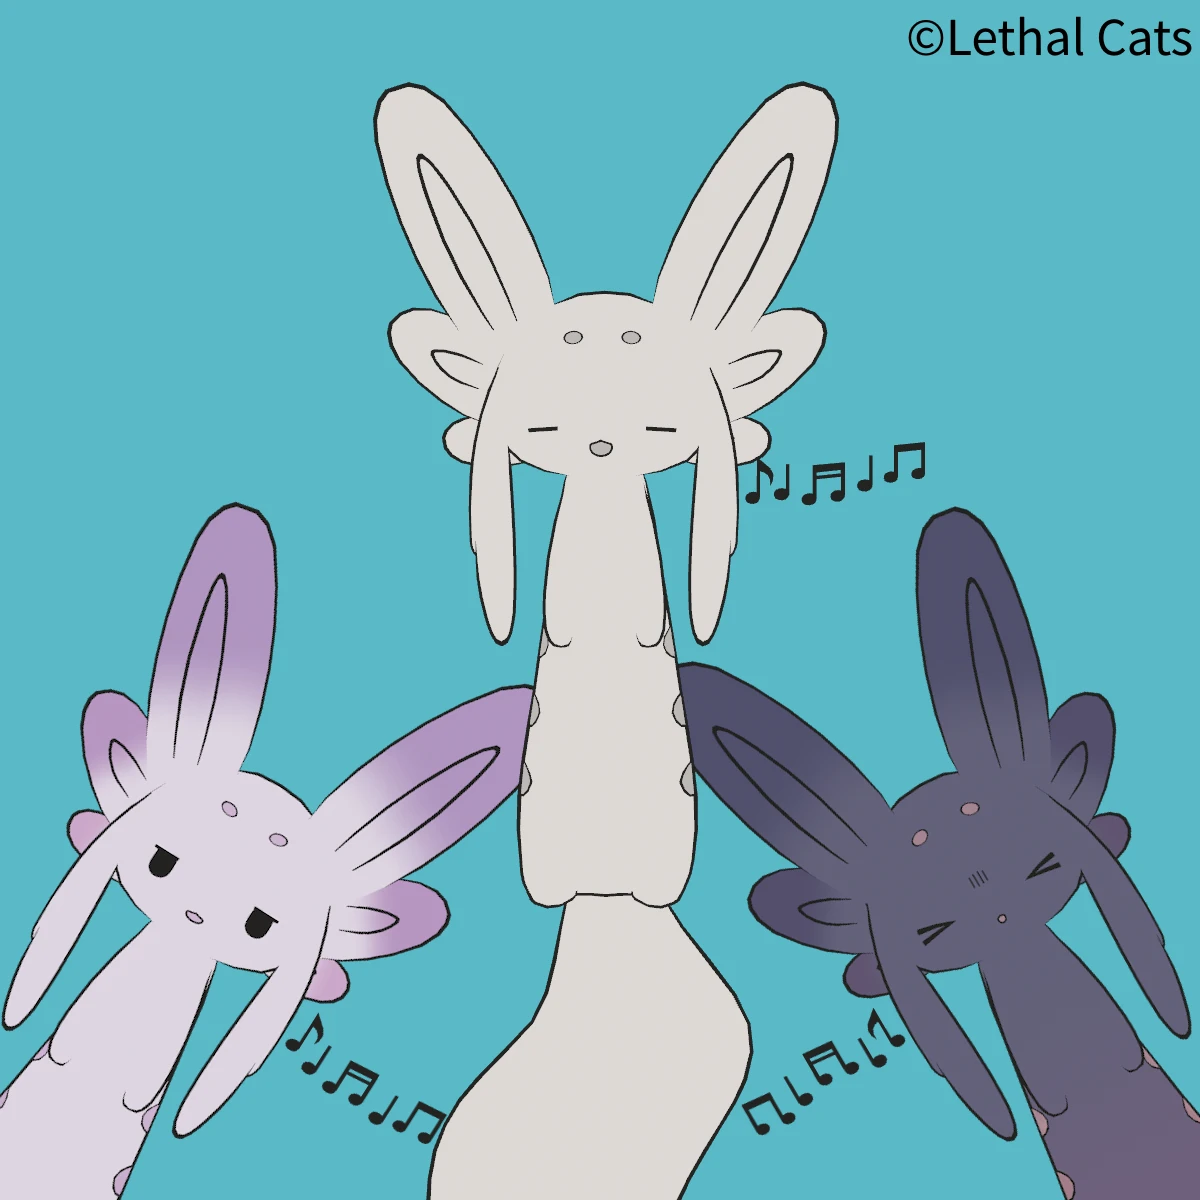
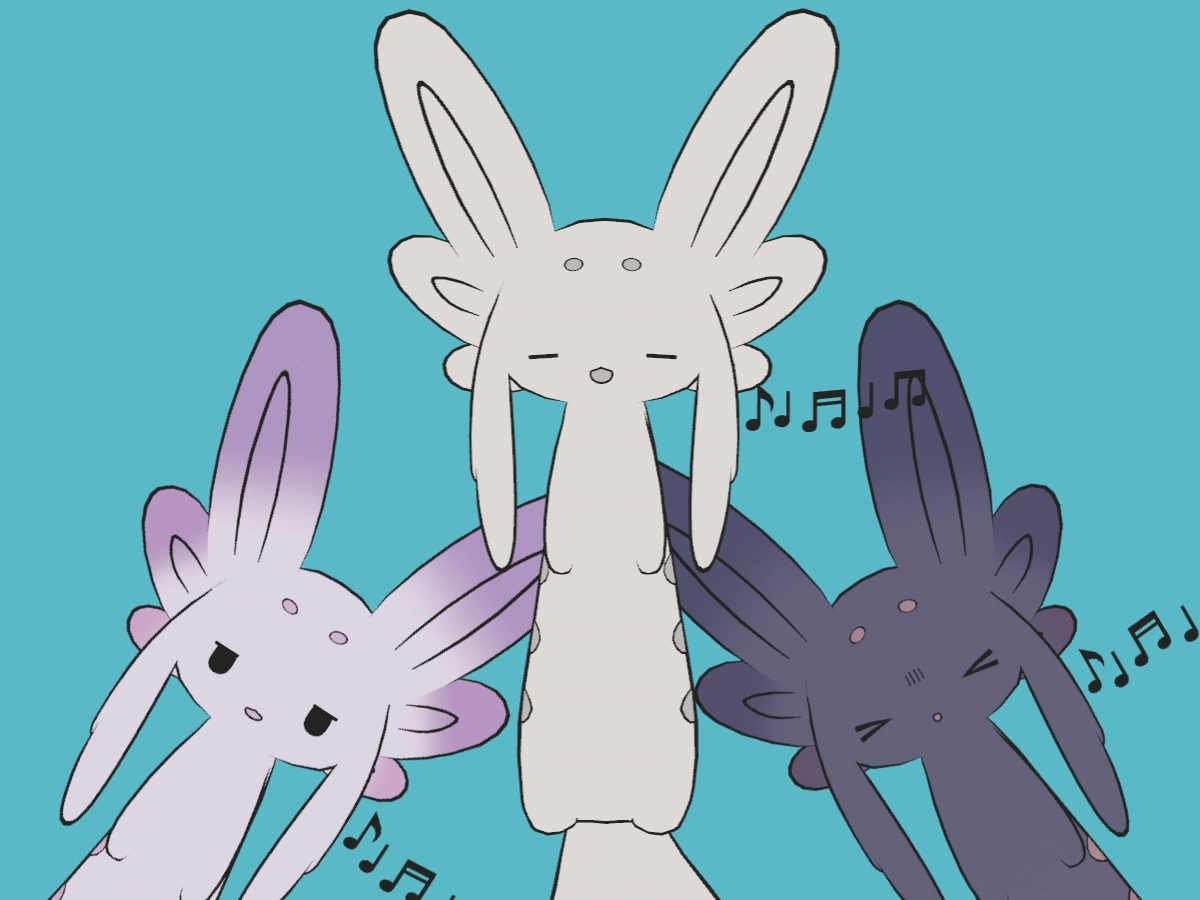
Take the new Mururu image, crop every photo at its center, use Geist Mono and 16px hero links (ui-revise7)
Add the plan for the seventh UI revision. Remove imagePosition and photoPosition; every photo is object-center. Replace Roboto Mono with Geist Mono (400, 500) in the styles, the credits and the license list. The hero's GitHub and BOOTH links are 16px with 18px icons.

diff --git a/tests/portfolio.test.js b/tests/portfolio.test.js
@@ -120,7 +120,7 @@ test("ui-revise 4: the category buttons are gone from the top page", () => {
   assert.doesNotMatch(main, /<nav[\s>]/);
 });
 
-test("ui-revise3 1, ui-revise4 1, ui-revise5 1: the hero has the h1 in the body font and the GitHub and BOOTH text buttons with their logos, without the symbol", () => {
+test("ui-revise3 1, ui-revise4 1, ui-revise5 1, ui-revise7 4: the hero has the h1 in the body font and the GitHub and BOOTH text buttons with their logos, without the symbol", () => {
   const hero = top.match(/<div[^>]*data-hero[\s\S]*?<\/ul>/)[0];
   // The wave; the brand symbol is gone (ui-revise4 1).
   assert.match(hero, /viewBox="0 0 1440 320"/);
@@ -182,6 +182,9 @@ test("ui-revise3 1, ui-revise4 1, ui-revise5 1: the hero has the h1 in the body 
       !cls.some((name) => /^(dark:)?(bg-|ring-|rounded-full)/.test(name)),
       tag,
     );
+    // ui-revise7 4: the text is 16px (text-base, no longer text-sm).
+    assert.ok(cls.includes("text-base"), tag);
+    assert.ok(!cls.includes("text-sm"), tag);
   }
 });
 
@@ -350,7 +353,7 @@ test("ui-revise4 2: VR & 3D has the real product only, without subcategories or 
   assert.ok(!top.includes("BOOTH ショップ"));
 });
 
-test("ui-revise3 (user), ui-revise4 2, ui-revise5 5: the BOOTH product: its card, links and image", () => {
+test("ui-revise3 (user), ui-revise4 2, ui-revise5 5, ui-revise7 1 2: the BOOTH product: its card, links and image", () => {
   const work = "mururu-blink-lipsync";
   const card = cardsOf(sectionOf("vr-3d"))[0];
   assert.equal(attr(card, "data-work"), work);
@@ -380,7 +383,7 @@ test("ui-revise3 (user), ui-revise4 2, ui-revise5 5: the BOOTH product: its card
   assert.doesNotMatch(top, new RegExp(`data-work-dialog="${work}"`));
 
   // The image: the file from the third-party directory (LICENSE section 3),
-  // kept in view at the top, where its credit is.
+  // 1200x900 (ui-revise7 1), cropped around its center like every photo.
   const source = join(
     root,
     "src/assets/works/third-party/mururu-blink-lipsync.webp",
@@ -391,11 +394,41 @@ test("ui-revise3 (user), ui-revise4 2, ui-revise5 5: the BOOTH product: its card
   assert.match(src, /^\/_astro\/mururu-blink-lipsync\.[\w-]+\.webp$/);
   assert.ok(existsSync(join(dist, src.slice(1))), src);
   assert.equal(attr(img, "width"), "1200");
-  assert.equal(attr(img, "height"), "1200");
-  assert.ok(attr(img, "class").split(/\s+/).includes("object-top"), img);
-  // The other photos are cropped around the center as before.
-  const other = cardsOf(sectionOf("keyboards"))[1].match(/<img\s[^>]*>/)[0];
-  assert.ok(attr(other, "class").split(/\s+/).includes("object-center"));
+  assert.equal(attr(img, "height"), "900");
+  assert.ok(attr(img, "class").split(/\s+/).includes("object-center"), img);
+});
+
+test("ui-revise7 2: every photo is cropped around its center; nothing is cropped at an edge", () => {
+  // The photos: the frame and featured cards' images and the dialogs'.
+  const photos = [...top.matchAll(/<img\s[^>]*>/g)]
+    .map(([img]) => img)
+    .filter((img) => /\bobject-cover\b/.test(attr(img, "class")));
+  const icons = photos.filter((img) => /\bscale-/.test(attr(img, "class")));
+  const framed = photos.filter((img) => !icons.includes(img));
+  assert.ok(
+    framed.some((img) => /mururu-blink-lipsync/.test(img)) &&
+      framed.length > cardsOf(sectionOf("keyboards")).length,
+    "self-check: the cards' and the dialogs' photos are found",
+  );
+  for (const img of framed) {
+    assert.ok(attr(img, "class").split(/\s+/).includes("object-center"), img);
+  }
+  // No edge or corner as the crop position anywhere: the sources and the
+  // built pages. (Not the built CSS: Tailwind also generates the classes
+  // named in the docs, which is harmless while no element uses them.)
+  const edge = /\bobject-(?:top|bottom|left|right)\b/;
+  const files = [
+    ...globSync("src/**/*.{astro,ts,tsx,css}", { cwd: root }),
+    ...globSync("dist/**/*.html", { cwd: root }),
+  ];
+  assert.ok(
+    files.some((f) => f.endsWith(".html")),
+    "self-check: dist",
+  );
+  for (const file of files) {
+    const found = readFileSync(join(root, file), "utf8").match(edge);
+    assert.equal(found, null, `${file}: ${found?.[0]}`);
+  }
 });
 
 test("ui-revise4 2: every card has the same hover; no photo zooms and no card lifts", async () => {

diff --git a/tests/e2e/works.spec.js b/tests/e2e/works.spec.js
@@ -838,7 +838,7 @@ const hoverClick = async (page, item) => {
   await page.mouse.click(box.x + 5, box.y + box.height / 2);
 };
 
-test.describe("ui-revise3 1, ui-revise4 1, ui-revise5 1: the hero", () => {
+test.describe("ui-revise3 1, ui-revise4 1, ui-revise5 1, ui-revise7 4: the hero", () => {
   for (const width of [375, 1280]) {
     test(`${width}px: the h1 is one line in 28px, with the GitHub and BOOTH text buttons side by side below it`, async ({
       page,
@@ -865,23 +865,31 @@ test.describe("ui-revise3 1, ui-revise4 1, ui-revise5 1: the hero", () => {
       expect(github.y).toBeGreaterThan(h1.y + h1.height);
       expect(Math.round(booth.y)).toBe(Math.round(github.y));
       expect(booth.x).toBeGreaterThan(github.x + github.width);
-      // Text buttons: no background or ring; the logo (16px, the GitHub
-      // mark and Lucide's box), then the text (ui-revise5 1).
+      // Text buttons: no background or ring; the logo (the GitHub mark and
+      // Lucide's box), then the text (ui-revise5 1). The text is 16px and
+      // the logo 18px, centered on the text (ui-revise7 4).
       for (const [i, link] of (await links.all()).entries()) {
+        await expect(link).toHaveCSS("font-size", "16px");
         await expect(link).toHaveCSS("background-color", "rgba(0, 0, 0, 0)");
         await expect(link).toHaveCSS("box-shadow", "none");
         const icon = link.locator("svg");
         await expect(icon).toHaveAttribute("data-icon", ["github", "box"][i]);
         await expect(icon).toBeVisible();
         const box = await icon.boundingBox();
-        expect([box.width, box.height]).toEqual([16, 16]);
+        expect([box.width, box.height]).toEqual([18, 18]);
         const range = await link.evaluate((element) => {
           const r = document.createRange();
           r.selectNodeContents(element);
           r.setStartAfter(element.querySelector("svg"));
-          return r.getBoundingClientRect().x;
+          const { x, y, height } = r.getBoundingClientRect();
+          return { x, y, height };
         });
-        expect(range).toBeGreaterThanOrEqual(box.x + box.width);
+        expect(range.x).toBeGreaterThanOrEqual(box.x + box.width);
+        expect(
+          Math.abs(box.y + box.height / 2 - (range.y + range.height / 2)),
+        ).toBeLessThanOrEqual(1);
+        // One line: the button does not wrap.
+        expect(range.height).toBeLessThan(16 * 2);
       }
     });
   }

diff --git a/tests/layout.test.js b/tests/layout.test.js
@@ -286,6 +286,53 @@ test("C6: no IBM Plex references remain", () => {
   );
 });
 
+test("ui-revise7 3: monospace text uses Geist Mono in the weights used (400, 500); Roboto Mono is gone", () => {
+  for (const file of htmlPages()) {
+    const css = pageCss(readDist(file));
+    assert.match(css, /--font-mono:\s*"Geist Mono",\s*monospace/, file);
+    const faces = [...css.matchAll(/@font-face\s*{([^}]*)}/g)]
+      .map((m) => m[1])
+      .filter((face) => /font-family:\s*"?Geist Mono/.test(face));
+    // Only the upright 400 and 500 (font-medium) are loaded.
+    const weights = new Set(
+      faces.map((face) => face.match(/font-weight:\s*(\d+)/)[1]),
+    );
+    assert.deepEqual([...weights].sort(), ["400", "500"], file);
+    for (const face of faces) {
+      assert.match(face, /font-style:\s*normal/, file);
+      for (const [, url] of face.matchAll(/url\(([^)]+)\)/g)) {
+        const path = url.replace(/^["']|["']$/g, "").replace(/^\//, "");
+        // The bundler inlines the small subsets as data: URLs.
+        if (path.startsWith("data:font/")) continue;
+        assert.ok(existsSync(join(dist, path)), `${file}: ${path} is missing`);
+      }
+    }
+  }
+  // The font files in dist/: Geist Mono in 400 and 500 only.
+  const files = globSync("_astro/geist-mono-*", { cwd: dist });
+  assert.ok(files.length > 0, "Geist Mono files in dist/");
+  for (const f of files) {
+    assert.match(f, /geist-mono-[\w-]+-(400|500)-normal\.[\w-]+\.woff2?$/, f);
+  }
+
+  const pkg = JSON.parse(readFileSync(join(root, "package.json"), "utf8"));
+  assert.ok(pkg.dependencies["@fontsource/geist-mono"]);
+  for (const field of ["dependencies", "devDependencies"]) {
+    assert.equal(pkg[field]?.["@fontsource/roboto-mono"], undefined);
+  }
+  // ("Roboto" alone is in the system font stack of Tailwind's preflight.)
+  const roboto = /roboto[ -]?mono/i;
+  assert.deepEqual(
+    globSync("**/*.{html,css,js,txt}", { cwd: dist })
+      .concat(globSync("**/*roboto*", { cwd: dist }))
+      .filter(
+        (p) =>
+          roboto.test(p) || roboto.test(readFileSync(join(dist, p), "utf8")),
+      ),
+    [],
+  );
+});
+
 /**
  * JavaScript a page loads: inline module scripts, external scripts and
  * modulepreloads, and the dist/_astro/*.js files they reference (recursively).

diff --git a/tests/build.test.js b/tests/build.test.js
@@ -121,7 +121,20 @@ test("A3: build output has no locale-prefixed pages", () => {
 
 test("A4: no Vercel references in build output and source", () => {
   const pattern = /vercel/i;
-  assert.deepEqual(findOccurrences(dist, distTextFiles(), pattern), []);
+  // Geist Mono's copyright notice, which the list of the bundled packages
+  // must carry as it is, names its repository on GitHub (ui-revise7 3,
+  // UR7-3). Only that URL, and only in that list, is allowed.
+  const notice = /\(https:\/\/github\.com\/vercel\/geist-font\.git\)/g;
+  const distAllowed = { "third-party-licenses.txt": notice };
+  assert.ok(notice.test(readDist("third-party-licenses.txt")), "self-check");
+  assert.deepEqual(
+    distTextFiles().filter((p) =>
+      pattern.test(
+        readFileSync(join(dist, p), "utf8").replace(distAllowed[p] ?? /^$/, ""),
+      ),
+    ),
+    [],
+  );
   // The production check (scripts/check-prod.mjs) makes sure responses do
   // not come from Vercel by the absence of its x-vercel-id header, so that
   // file may name the header, and only the header

diff --git a/tests/e2e/password-generator.spec.js b/tests/e2e/password-generator.spec.js
@@ -25,6 +25,23 @@ for (const locale of LOCALES) {
 
     const passwordText = (page) => page.locator("div.font-mono").first();
 
+    test("ui-revise7 3: the password is shown in Geist Mono", async ({
+      page,
+    }) => {
+      await expect(passwordText(page)).toHaveCSS(
+        "font-family",
+        /^"Geist Mono", monospace$/,
+      );
+      const loaded = await page.evaluate(async () => {
+        await document.fonts.ready;
+        return [...document.fonts]
+          .filter((f) => f.family.replace(/"/g, "") === "Geist Mono")
+          .filter((f) => f.status === "loaded")
+          .map((f) => f.weight);
+      });
+      expect(loaded).toContain("400");
+    });
+
     test("shows a password on opening, and the length slider sets its length", async ({
       page,
     }) => {

diff --git a/src/config/works.ts b/src/config/works.ts
@@ -26,11 +26,6 @@ interface WorkBase {
   image: ImageMetadata;
   /** Shown as a large, full-width card in its category. */
   featured?: true;
-  /**
-   * Where a photo is cropped to the frame: "top" keeps its top in view (for
-   * a credit there). Without it, the photo is cropped around its center.
-   */
-  imagePosition?: "top";
 }
 
 /**
@@ -131,8 +126,6 @@ export const works: Work[] = [
     id: "mururu-blink-lipsync",
     category: "vr-3d",
     image: mururuBlinkLipsyncImg,
-    // The image's credit is in its top right corner: keep the top in view.
-    imagePosition: "top",
     link: "https://unlibra-twin.booth.pm/items/9009879",
     docs: "https://docs.unlibra.com/mururu-blink-lipsync/",
   },

diff --git a/src/config/credits.ts b/src/config/credits.ts
@@ -64,11 +64,11 @@ export const fonts: readonly (Credit & { package: string })[] = [
     url: "https://fontsource.org/fonts/line-seed-jp",
   },
   {
-    name: "Roboto Mono",
-    package: "@fontsource/roboto-mono",
-    author: "The Roboto Mono Project Authors",
+    name: "Geist Mono",
+    package: "@fontsource/geist-mono",
+    author: "The Geist Project Authors",
     license: "SIL Open Font License 1.1",
-    url: "https://fontsource.org/fonts/roboto-mono",
+    url: "https://fontsource.org/fonts/geist-mono",
   },
 ];
 

diff --git a/tests/types/works.ts b/tests/types/works.ts
@@ -75,6 +75,19 @@ export const withSubcategory: Work[] = [
   },
 ];
 
+// ui-revise7 2: every photo is cropped around its center; no work sets
+// where its photo is cropped.
+export const withImagePosition: Work[] = [
+  {
+    id: "mururu-blink-lipsync",
+    category: "vr-3d",
+    image,
+    link: "https://unlibra-twin.booth.pm/items/9009879",
+    // @ts-expect-error Photos are cropped around the center.
+    imagePosition: "top",
+  },
+];
+
 export const oldDocsHost: Work[] = [
   {
     id: "tkinter-unblur",

diff --git a/src/config/cards.ts b/src/config/cards.ts
@@ -27,9 +27,3 @@ export const cardKind = (
   work: Pick<Work, "category" | "featured">,
 ): CardStyle | "featured" =>
   work.featured ? "featured" : cardStyles[work.category];
-
-/** How a work's photo is cropped to its frame (`imagePosition`). */
-export const photoPosition = (
-  work: Pick<Work, "imagePosition">,
-): "object-top" | "object-center" =>
-  work.imagePosition === "top" ? "object-top" : "object-center";

diff --git a/tests/third-party-licenses.test.js b/tests/third-party-licenses.test.js
@@ -88,8 +88,8 @@ test("H4/H5: the list has exactly the packages the build output ships", () => {
     [
       "@astrojs/react",
       "@fontsource-variable/noto-sans-jp",
+      "@fontsource/geist-mono",
       "@fontsource/line-seed-jp",
-      "@fontsource/roboto-mono",
       "@headlessui/react",
       "@heroicons/react",
       "astro",

diff --git a/src/styles/global.css b/src/styles/global.css
@@ -20,7 +20,7 @@
 
 @theme {
   --font-sans: "Noto Sans JP Variable", sans-serif;
-  --font-mono: "Roboto Mono", monospace;
+  --font-mono: "Geist Mono", monospace;
   /* The logotype "unlibra" (bold only; see the @font-face above). */
   --font-brand: "LINE Seed JP", "Noto Sans JP Variable", sans-serif;
 

diff --git a/docs/decisions/ui-revise7/ui-revise7.md b/docs/decisions/ui-revise7/ui-revise7.md
@@ -1,0 +1,37 @@
+# UI の見直し（7回目）の判断ログ（ui-revise7）
+
+計画：`ui-revise7/plan.md`。ここには、計画とユーザーの指示に書かれていない判断を書く。
+
+## UR7-1 写真の切り抜きを中央にする仕組み
+
+- 決めたこと：`Work.imagePosition` と `cards.ts` の `photoPosition` を消し、写真の `<img>`（`FrameCard`、`FeaturedCard`、`WorkDialog`）に `object-center` を直接書いた。型のテスト（`tests/types/works.ts`）に、`imagePosition` を書くと型エラーになることを足した。アイコン（`WorkIcon`、`scale-[2.25] object-cover`）は写真ではないので `object-center` を足していない（`object-cover` の既定の位置は中央で、見た目は変わらない）
+- テストでは、`src/` とビルドした HTML に `object-top`・`object-bottom`・`object-left`・`object-right` がないことを見る。ビルドした CSS は見ない。Tailwind が `docs/` の文書に書かれたクラス名からも CSS を作るため（計画の本文に `object-top` がある）で、使う要素がなければ害はない
+- 他の選択肢：`photoPosition` を残して常に `object-center` を返す（仕組みを外す指示と合わない）
+- 戻すときの作業：上の3つのコンポーネント、`works.ts`、`cards.ts` を戻し、テストを戻す
+
+## UR7-2 ヒーローのリンクのアイコンの大きさ
+
+- 決めたこと：文字を `text-sm`（14px）から `text-base`（16px、行の高さ 24px）にし、アイコンを 16px から 18px（`size-4.5`）にした。14px の文字に 16px のアイコンだった比（約 1.14）を保つ大きさ
+- E2E では、アイコンが 18px で、文字の行と縦の中心が 1px 以内でそろい、ボタンが1行であることを見る
+- 他の選択肢：アイコンを 16px のまま（文字より小さく見える）、20px（`size-5`、比が大きくなる）
+- 戻すときの作業：`src/pages/index.astro` のクラス2つと、テストの期待値を戻す
+
+## UR7-3 Geist Mono への置き換え
+
+- 決めたこと：
+  - `@fontsource/geist-mono@^5.3.0`（OFL-1.1）を `dependencies` に入れ、`@fontsource/roboto-mono` を消した。読み込むのは使っている太さの 400 と 500（`font-medium`）の、立体（`normal`）だけ。今まで Roboto Mono で読み込んでいたものと同じ
+  - クレジットのフォントの一覧は「Geist Mono」、著作者は「The Geist Project Authors」（フォントのパッケージの LICENSE とフォントファイルの著作権表示の名義）、参照先は npm パッケージの `homepage`（`https://fontsource.org/fonts/geist-mono`）。UR6-2 と同じ決め方
+  - LICENSE 第4節と `LICENSES/` には Roboto Mono の名前がなく（第4節はフォントをまとめて「npm packages ... including fonts」としている。`LICENSES/OFL-1.1.txt` は LINE Seed JP の切り出したフォントのためのもの）、変えるところはなかった。`/third-party-licenses.txt` はビルド時にパッケージから作られるので、Geist Mono に置き換わる
+- 既存のテスト `build.test.js` の A4（ビルドの出力とソースに「Vercel」がないこと）が、`/third-party-licenses.txt` で落ちた。Geist Mono の著作権表示（`Copyright 2024 The Geist Project Authors (https://github.com/vercel/geist-font.git)`）がリポジトリの URL を含むため。著作権表示は改変せずに載せる必要があるので、`/third-party-licenses.txt` の中のこの URL だけを許すようにした（`scripts/check-prod.mjs` の `x-vercel-id` と同じ形）。A4 の目的（Vercel の設定やホスティングへの参照が残っていないこと）は保たれる
+- 他の選択肢：A4 を変えずに、別のフォントを選ぶ（ユーザーの指示と合わない）。許可を `/third-party-licenses.txt` 全体にする（広すぎる）
+- 戻すときの作業：`package.json`、`package-lock.json`、`BaseLayout.astro` の import、`global.css` の `--font-mono`、`credits.ts` を戻し、A4 の許可と `third-party-licenses.test.js` の一覧、追加したテストを戻す
+
+## 直した既存のテストと理由（R1）
+
+| テスト                                                                                    | 直した内容と理由                                                                                                      |
+| ----------------------------------------------------------------------------------------- | --------------------------------------------------------------------------------------------------------------------- |
+| `portfolio.test.js` の `ui-revise3 (user), ui-revise4 2, ui-revise5 5: the BOOTH product` | 画像の高さを 1200 から 900 に（指示1）、`object-top` を `object-center` に（指示2）。名前に `ui-revise7 1 2` を足した |
+| `portfolio.test.js` の `ui-revise3 1, ui-revise4 1, ui-revise5 1: the hero ...`           | 文字が `text-base` で `text-sm` でないことを足した（指示4）                                                           |
+| `works.spec.js` の `ui-revise3 1, ui-revise4 1, ui-revise5 1: the hero`                   | アイコンの大きさを 16px から 18px に（UR7-2）。文字が 16px、アイコンと文字の縦の中心、1行であることを足した           |
+| `third-party-licenses.test.js` の `H4/H5: the list has exactly the packages ...`          | `@fontsource/roboto-mono` を `@fontsource/geist-mono` に（指示3）                                                     |
+| `build.test.js` の `A4: no Vercel references in build output and source`                  | UR7-3                                                                                                                 |
